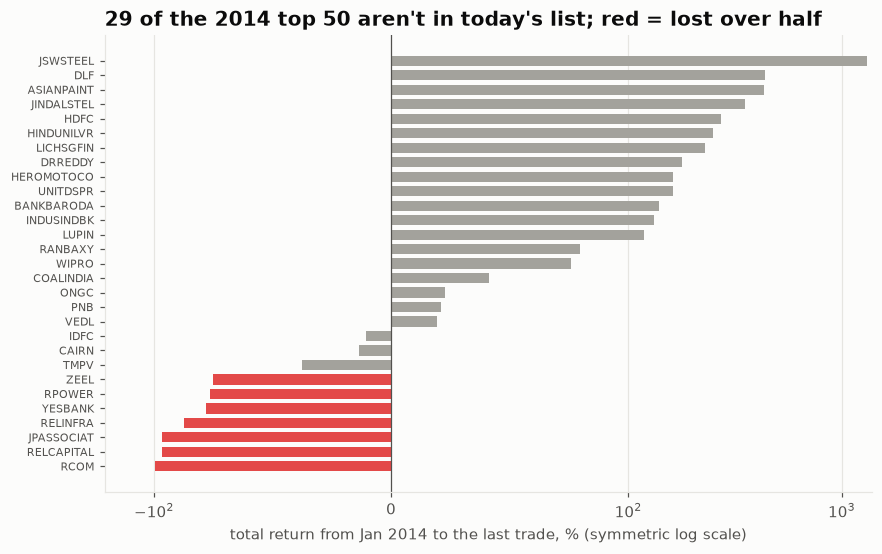
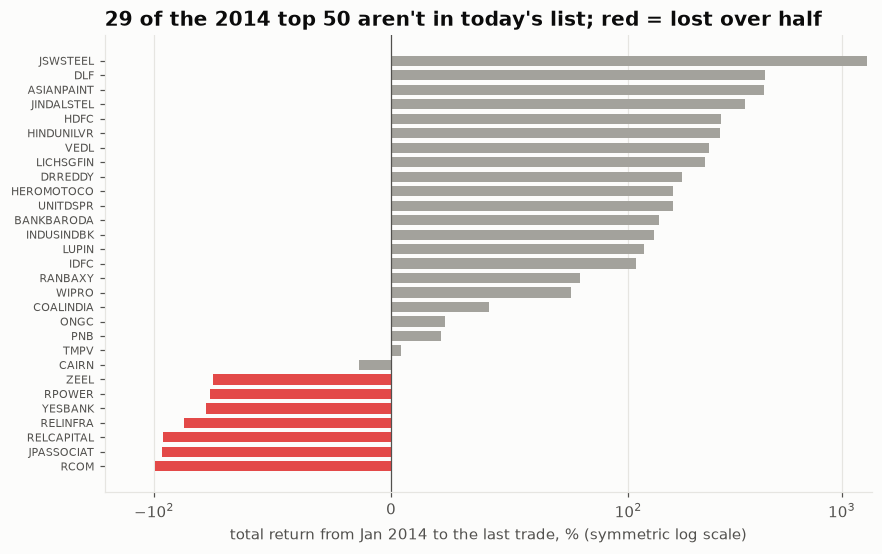
fix: use the corrected NSE panel's own corporate-action flags in the survivorship test
The quant panel now flags only official corporate actions, so its flags are trusted when its
NSE list is present; restoring raw returns on those days would have turned demergers back into
fake crashes. Section 7 numbers updated: today's list 28.7% a year vs 9.8% point-in-time.

diff --git a/src/mab/universe.py b/src/mab/universe.py
@@ -22,9 +22,11 @@ TRADING_DAYS = 252
 def load_lake(lake_dir: str | Path | None = None) -> tuple[pd.DataFrame, pd.DataFrame]:
     """(price index, turnover) as wide date x symbol frames from panel.parquet.
 
-    The lake zeroes every daily move above 35% as a possible corporate action. Moves that match a
-    real split or bonus in actions.parquet stay zeroed; the rest (real crashes and rallies, e.g. YES
-    Bank in March 2020) get their raw close-to-close return back. Prices are rebuilt from returns.
+    Older lakes zero every daily move above 35% as a possible corporate action. For those, moves
+    that match a split or bonus in actions.parquet stay zeroed and the rest (real crashes and
+    rallies, e.g. YES Bank in March 2020) get their raw return back. A lake built with NSE's
+    official corporate-actions list (_ref/nse_ca/*.csv) already flags only real corporate actions,
+    so its flags are used as they are. Prices are rebuilt from returns.
     """
     lake_dir = lake_dir or os.environ.get("MAB_LAKE_DIR")
     if not lake_dir:
@@ -39,8 +41,11 @@ def load_lake(lake_dir: str | Path | None = None) -> tuple[pd.DataFrame, pd.Data
         a = pd.read_parquet(actions, columns=["date", "symbol"])
         known = set(zip(a["symbol"], pd.to_datetime(a["date"]), strict=True))
     flagged = p["ca_day"].fillna(False).astype(bool)
-    matched = pd.Series([(s, d) in known for s, d in zip(p["symbol"], p["date"], strict=True)],
-                        index=p.index)
+    if any((lake_dir / "_ref" / "nse_ca").glob("*.csv")):
+        known = None  # the lake was built with NSE's official list: its flags are already right
+    matched = (flagged if known is None else
+               pd.Series([(s, d) in known for s, d in zip(p["symbol"], p["date"], strict=True)],
+                         index=p.index))
     raw = p["close"] / p["prev_close"] - 1
     ret = p["ret"].where(~(flagged & ~matched), raw)
     p = p.assign(ret=ret)

diff --git a/tests/test_universe.py b/tests/test_universe.py
@@ -66,3 +66,20 @@ def test_lake_repair_restores_real_moves_not_matched_to_a_corporate_action(tmp_p
     prices, _ = load_lake(tmp_path)
     assert prices["YES"].iloc[-1] / prices["YES"].iloc[0] == pytest.approx(0.44)  # real crash kept
     assert prices["SPLIT"].iloc[-1] / prices["SPLIT"].iloc[0] == pytest.approx(1.0)  # split ignored
+
+
+def test_a_lake_built_with_the_official_nse_list_is_trusted_as_is(tmp_path):
+    from mab.universe import load_lake
+
+    idx = pd.bdate_range("2026-04-28", periods=3)
+    panel = pd.DataFrame({
+        "date": idx, "symbol": "VEDL",
+        "close": [770.0, 271.0, 271.0], "prev_close": [770.0, 770.0, 271.0],
+        "ret": [0.0, 0.0, 0.0],  # demerger day zeroed by the lake
+        "ca_day": [False, True, False], "turnover": 1.0,
+    })
+    panel.to_parquet(tmp_path / "panel.parquet")
+    (tmp_path / "_ref" / "nse_ca").mkdir(parents=True)
+    (tmp_path / "_ref" / "nse_ca" / "nse_ca.csv").write_text("SYMBOL,PURPOSE,EX-DATE\n")
+    prices, _ = load_lake(tmp_path)
+    assert prices["VEDL"].iloc[-1] == pytest.approx(prices["VEDL"].iloc[0])  # not a fake crash

diff --git a/README.md b/README.md
@@ -186,26 +186,28 @@ previous six months, known before each rebalance), re-chosen each January from 2
 against today's 50 most-traded stocks applied to the whole history (**today's list**). Equal weight,
 rebalanced yearly, after costs, before tax.
 
-- **Buy and hold:** today's list turned ₹1 into ₹25 (28.3% a year). The honest point-in-time universe turned
-  it into ₹3.2 (9.5% a year). Today's most-traded list includes recent winners such as BSE and MCX, so
+- **Buy and hold:** today's list turned ₹1 into ₹26 (28.7% a year). The honest point-in-time universe turned
+  it into ₹3.4 (9.8% a year). Today's most-traded list includes recent winners such as BSE and MCX, so
   much of this gap is hindsight winner-picking (turnover rises with price) rather than delisted
   companies alone. A list chosen by market value, such as today's NIFTY 50, would probably show a smaller
   gap; that wasn't measured here.
 - **29 of the 2014 top 50 aren't in today's list.** Most simply lost turnover rank, but seven lost more
-  than half their value: RCOM (−99%), Reliance Capital and Jaiprakash Associates (−97%), Reliance
+  than half their value: RCOM (−99%), Jaiprakash Associates (−97%), Reliance Capital (−96%), Reliance
   Infrastructure (−87%), YES Bank (−78%), Reliance Power (−76%) and Zee (−75%). A today's-list backtest
   never holds them.
-- **The 200-day filter was overstated too,** by 14 points a year (23.8% vs 9.5%).
-- **A lead, not a finding:** on the honest universe, the per-stock 200-day filter matched buy and hold's
-  growth (9.5%) with a much smaller worst drawdown (−15% vs −51%), and beat a fixed mix with the same 58%
-  average exposure (8.7% a year, −29% drawdown). Across 50 stocks each filter stepped aside from its own
+- **The 200-day filter was overstated too,** by 15 points a year (24.2% vs 9.6%).
+- **A lead, not a finding:** on the honest universe, the per-stock 200-day filter nearly matched buy and
+  hold's growth (9.6% vs 9.8% a year) with a much smaller worst drawdown (−15% vs −51%), and beat a fixed
+  mix with the same 58% average exposure (8.9% a year, −29% drawdown). Across 50 stocks each filter stepped aside from its own
   collapse, which a single-stock test (section 6) can't show. But it is one period, before tax (a filter
   trading 50 stocks would realise many short-term gains), with simplified costs, close-to-close fills and
   a costless daily-rebalanced mix, so it needs the full engine and a walk-forward test before it means
   anything.
-- **Data note:** the source panel sets every daily move above 35% to zero as a possible corporate action.
-  This section restores the raw return on such days unless they match a real split or bonus, so genuine
-  crashes like YES Bank's −56% on 6 Mar 2020 count. Delisted stocks exit at their last traded price,
+- **Data note:** returns are set to zero only on real corporate-action days (splits, bonuses, demergers,
+  rights issues and schemes from NSE's official corporate-actions list, plus listing days), so genuine
+  crashes like YES Bank's −56% on 6 Mar 2020 count. An older version of the data panel zeroed every
+  move above 35%; for such panels the code restores the raw return unless the day matches a split or
+  bonus. Delisted stocks exit at their last traded price,
   which flatters the point-in-time universe (the conservative direction for this comparison).
 - Reproduce with `MAB_LAKE_DIR=<folder with panel.parquet> uv run mab report survivorship`. The NSE data
   isn't committed; only the aggregate results (`docs/data/survivorship.json`) are.
